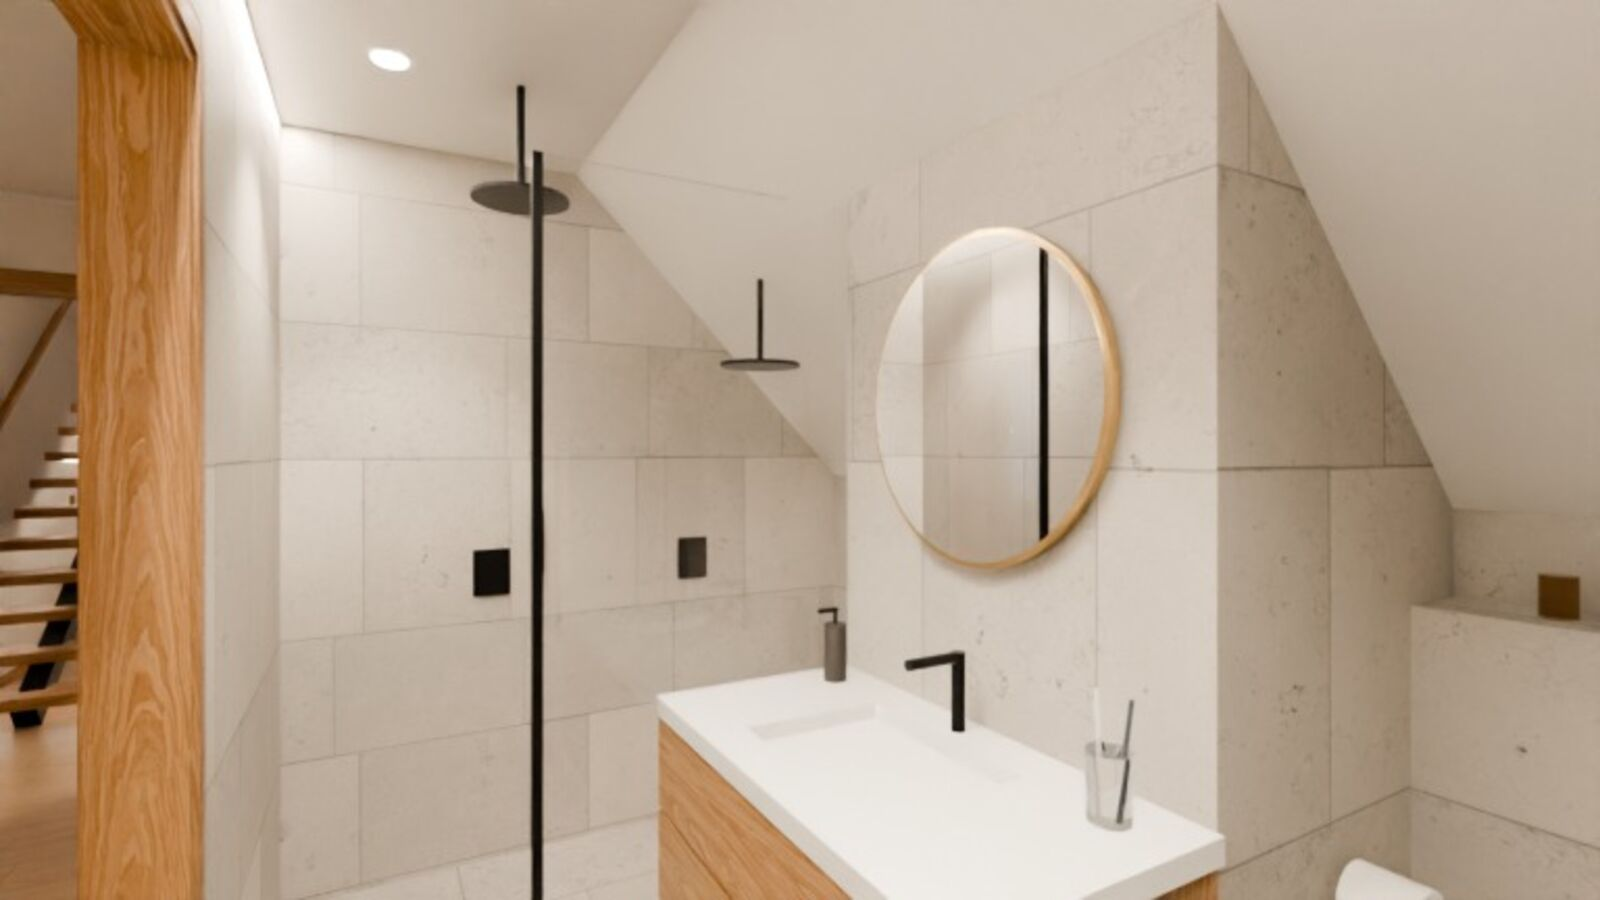
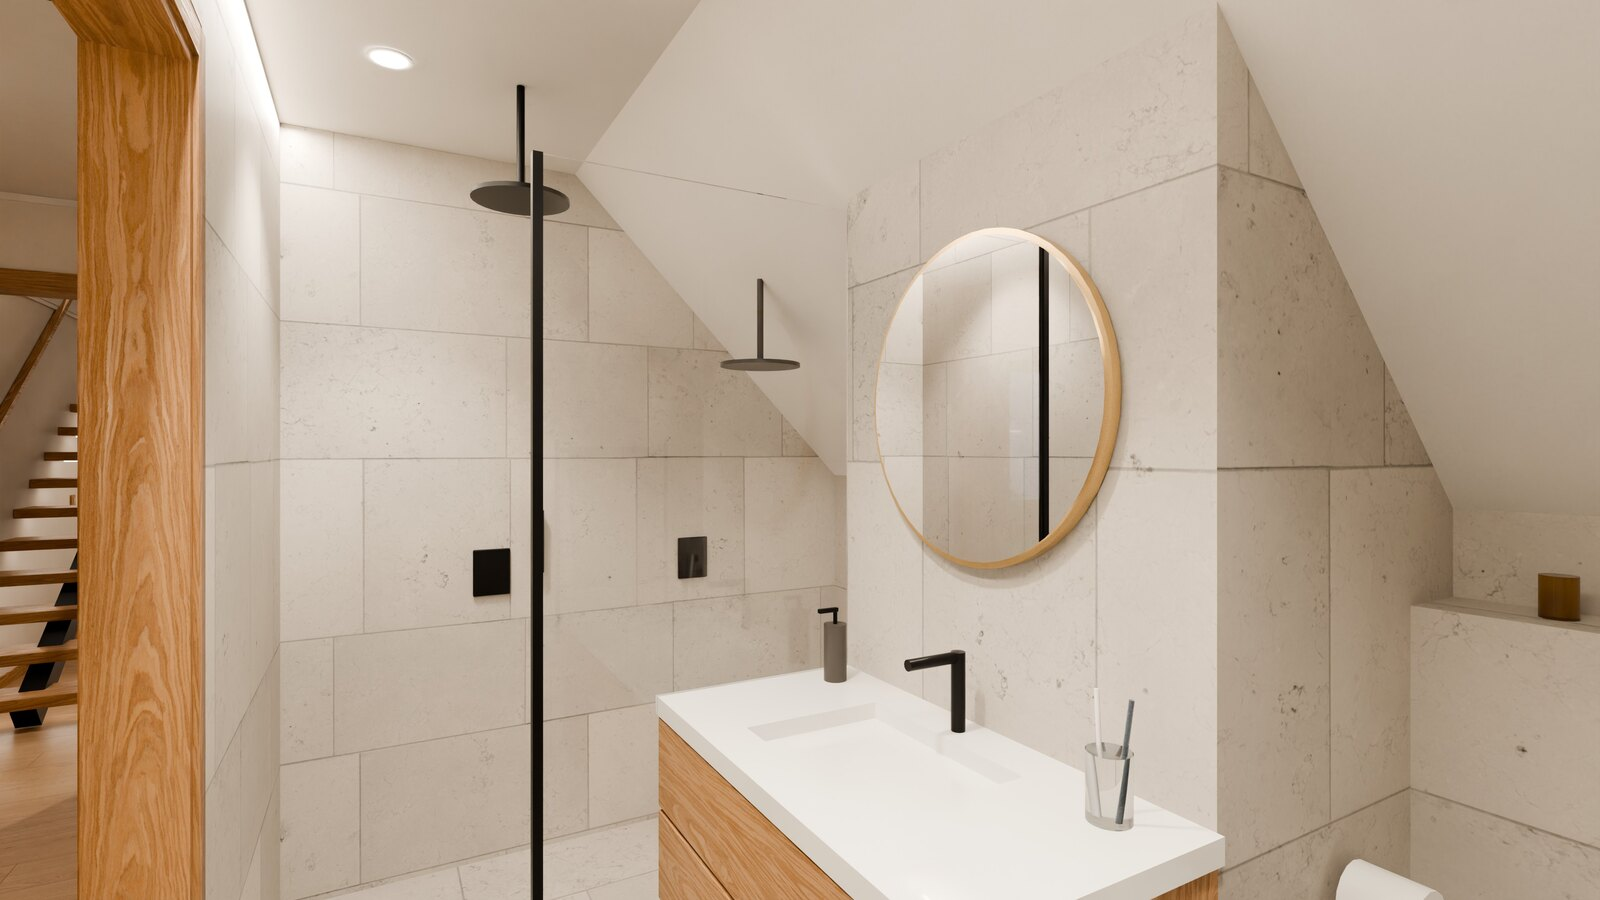
Boligannonse: 11 av 25 bilder i 4K

diff --git a/annonse/index.html b/annonse/index.html
@@ -103,7 +103,7 @@ img { max-width: 100%; }
 
 <div class="ark">
   <header class="topp">
-    <div class="merke"><strong>3D-visualisering av planlagt ombygging</strong><span>9 av 25 bilder er ferdige i 4K, resten er forhåndsvisninger</span></div>
+    <div class="merke"><strong>3D-visualisering av planlagt ombygging</strong><span>11 av 25 bilder er ferdige i 4K, resten er forhåndsvisninger</span></div>
     <h1>Enebolig med golfanneks og oppvarmet garasje</h1>
     <figure class="bilde hero"><button type="button" class="apne" data-i="0" aria-label="Åpne bildet: Fasaden mot nord med overbygd inngang"><img src="img/01-fasade.jpg" width="1600" height="900" alt="Fasaden mot nord med overbygd inngang"></button><figcaption>Fasaden mot nord med overbygd inngang</figcaption></figure>
     <p class="ingress">Et hus over tre plan med stue og kjøkken mot hagen, hovedsoverom med eget bad, tre barnerom og loft. I hagen står et anneks med golfsimulator. Trykk på et bilde for å se det i full oppløsning. På mobil fyller bildet hele skjermen når du snur den, og du blar ved å sveipe.</p>
@@ -113,7 +113,7 @@ img { max-width: 100%; }
 
 <section id="ute" class="del"><div class="delhode"><h2>Huset</h2><p>Brun stående kledning, sort ståltak og eik rundt alle åpninger. Overbygd inngang mot nord, dobbel garasje ved siden av.</p></div><div class="galleri"><figure class="bilde stor"><button type="button" class="apne" data-i="1" aria-label="Åpne bildet: Huset, garasjen og annekset sett fra nord"><img src="img/02-oversikt.jpg" width="1600" height="900" alt="Huset, garasjen og annekset sett fra nord" loading="lazy"></button><figcaption>Huset, garasjen og annekset sett fra nord</figcaption></figure></div></section>
 <section id="forste" class="del"><div class="delhode"><h2>Første etasje</h2><p>Stue, TV-stue, spisestue og kjøkken ligger på rekke mot hagen i sør. Tilbygget med kjøkken og spisestue ligger litt lavere enn stua og har 2,9 meter under taket.</p></div><div class="galleri"><figure class="bilde stor"><button type="button" class="apne" data-i="2" aria-label="Åpne bildet: Stua med karnapp mot hagen"><img src="img/04-stue.jpg" width="1600" height="900" alt="Stua med karnapp mot hagen" loading="lazy"></button><figcaption>Stua med karnapp mot hagen</figcaption></figure><figure class="bilde"><button type="button" class="apne" data-i="3" aria-label="Åpne bildet: Sofagruppa, med TV-stua bak glassveggen til venstre"><img src="img/05-stue-sofa.jpg" width="1600" height="900" alt="Sofagruppa, med TV-stua bak glassveggen til venstre" loading="lazy"></button><figcaption>Sofagruppa, med TV-stua bak glassveggen til venstre</figcaption></figure><figure class="bilde"><button type="button" class="apne" data-i="4" aria-label="Åpne bildet: Spisestue med rundt bord til åtte og skyvedører ut til terrassen"><img src="img/07-spisestue.jpg" width="1600" height="900" alt="Spisestue med rundt bord til åtte og skyvedører ut til terrassen" loading="lazy"></button><figcaption>Spisestue med rundt bord til åtte og skyvedører ut til terrassen</figcaption></figure><figure class="bilde"><button type="button" class="apne" data-i="5" aria-label="Åpne bildet: Kjøkken med mørk brune fronter og øy i Dekton"><img src="img/08-kjokken.jpg" width="1600" height="900" alt="Kjøkken med mørk brune fronter og øy i Dekton" loading="lazy"></button><figcaption>Kjøkken med mørk brune fronter og øy i Dekton</figcaption></figure><figure class="bilde"><button type="button" class="apne" data-i="6" aria-label="Åpne bildet: Kjøkkenøya har usynlig induksjon under steinplata"><img src="img/09-kjokken-oy.jpg" width="1600" height="900" alt="Kjøkkenøya har usynlig induksjon under steinplata" loading="lazy"></button><figcaption>Kjøkkenøya har usynlig induksjon under steinplata</figcaption></figure><figure class="bilde"><button type="button" class="apne" data-i="7" aria-label="Åpne bildet: TV-stua kan stenges av med glassfoldevegg"><img src="img/06-tvstue.jpg" width="1600" height="900" alt="TV-stua kan stenges av med glassfoldevegg" loading="lazy"></button><figcaption>TV-stua kan stenges av med glassfoldevegg</figcaption></figure><figure class="bilde"><button type="button" class="apne" data-i="8" aria-label="Åpne bildet: Entréen sett fra hoveddøra, med stua innerst"><img src="img/03-entre.jpg" width="1600" height="900" alt="Entréen sett fra hoveddøra, med stua innerst" loading="lazy"></button><figcaption>Entréen sett fra hoveddøra, med stua innerst</figcaption></figure></div></section>
-<section id="andre" class="del"><div class="delhode"><h2>Andre etasje</h2><p>Hovedsoverom med eget bad og walk-in, tre barnerom, barnebad, vaskerom og hjemmekontor.</p></div><div class="galleri"><figure class="bilde stor"><button type="button" class="apne" data-i="9" aria-label="Åpne bildet: Hovedsoverommet, med loftstrappa utenfor døra"><img src="img/10-hovedsoverom.jpg" width="1600" height="900" alt="Hovedsoverommet, med loftstrappa utenfor døra" loading="lazy"><span class="lav">Lav kvalitet, 4K kommer</span></button><figcaption>Hovedsoverommet, med loftstrappa utenfor døra</figcaption></figure><figure class="bilde"><button type="button" class="apne" data-i="10" aria-label="Åpne bildet: Bad til hovedsoverommet med dusj under skråtaket"><img src="img/11-masterbad.jpg" width="1600" height="900" alt="Bad til hovedsoverommet med dusj under skråtaket" loading="lazy"><span class="lav">Lav kvalitet, 4K kommer</span></button><figcaption>Bad til hovedsoverommet med dusj under skråtaket</figcaption></figure><figure class="bilde"><button type="button" class="apne" data-i="11" aria-label="Åpne bildet: Walk-in med plassbygd innredning i eik"><img src="img/12-walkin.jpg" width="1600" height="900" alt="Walk-in med plassbygd innredning i eik" loading="lazy"><span class="lav">Lav kvalitet, 4K kommer</span></button><figcaption>Walk-in med plassbygd innredning i eik</figcaption></figure><figure class="bilde"><button type="button" class="apne" data-i="12" aria-label="Åpne bildet: Barnerom med gulvhøyt vindu mot vest"><img src="img/13-barnerom2.jpg" width="1600" height="900" alt="Barnerom med gulvhøyt vindu mot vest" loading="lazy"><span class="lav">Lav kvalitet, 4K kommer</span></button><figcaption>Barnerom med gulvhøyt vindu mot vest</figcaption></figure><figure class="bilde"><button type="button" class="apne" data-i="13" aria-label="Åpne bildet: Barnerom med lenestol ved vinduet"><img src="img/14-barnerom3.jpg" width="1600" height="900" alt="Barnerom med lenestol ved vinduet" loading="lazy"><span class="lav">Lav kvalitet, 4K kommer</span></button><figcaption>Barnerom med lenestol ved vinduet</figcaption></figure><figure class="bilde"><button type="button" class="apne" data-i="14" aria-label="Åpne bildet: Barnerom med takvinduer mot sør"><img src="img/15-barnerom1.jpg" width="1600" height="900" alt="Barnerom med takvinduer mot sør" loading="lazy"><span class="lav">Lav kvalitet, 4K kommer</span></button><figcaption>Barnerom med takvinduer mot sør</figcaption></figure><figure class="bilde"><button type="button" class="apne" data-i="15" aria-label="Åpne bildet: Barnebad med dobbel servant og takvinduer"><img src="img/25-barnebad.jpg" width="1600" height="900" alt="Barnebad med dobbel servant og takvinduer" loading="lazy"><span class="lav">Lav kvalitet, 4K kommer</span></button><figcaption>Barnebad med dobbel servant og takvinduer</figcaption></figure><figure class="bilde"><button type="button" class="apne" data-i="16" aria-label="Åpne bildet: Hjemmekontor i nisjen ved trappa"><img src="img/16-kontor.jpg" width="1600" height="900" alt="Hjemmekontor i nisjen ved trappa" loading="lazy"><span class="lav">Lav kvalitet, 4K kommer</span></button><figcaption>Hjemmekontor i nisjen ved trappa</figcaption></figure></div></section>
+<section id="andre" class="del"><div class="delhode"><h2>Andre etasje</h2><p>Hovedsoverom med eget bad og walk-in, tre barnerom, barnebad, vaskerom og hjemmekontor.</p></div><div class="galleri"><figure class="bilde stor"><button type="button" class="apne" data-i="9" aria-label="Åpne bildet: Hovedsoverommet, med loftstrappa utenfor døra"><img src="img/10-hovedsoverom.jpg" width="1600" height="900" alt="Hovedsoverommet, med loftstrappa utenfor døra" loading="lazy"></button><figcaption>Hovedsoverommet, med loftstrappa utenfor døra</figcaption></figure><figure class="bilde"><button type="button" class="apne" data-i="10" aria-label="Åpne bildet: Bad til hovedsoverommet med dusj under skråtaket"><img src="img/11-masterbad.jpg" width="1600" height="900" alt="Bad til hovedsoverommet med dusj under skråtaket" loading="lazy"></button><figcaption>Bad til hovedsoverommet med dusj under skråtaket</figcaption></figure><figure class="bilde"><button type="button" class="apne" data-i="11" aria-label="Åpne bildet: Walk-in med plassbygd innredning i eik"><img src="img/12-walkin.jpg" width="1600" height="900" alt="Walk-in med plassbygd innredning i eik" loading="lazy"><span class="lav">Lav kvalitet, 4K kommer</span></button><figcaption>Walk-in med plassbygd innredning i eik</figcaption></figure><figure class="bilde"><button type="button" class="apne" data-i="12" aria-label="Åpne bildet: Barnerom med gulvhøyt vindu mot vest"><img src="img/13-barnerom2.jpg" width="1600" height="900" alt="Barnerom med gulvhøyt vindu mot vest" loading="lazy"><span class="lav">Lav kvalitet, 4K kommer</span></button><figcaption>Barnerom med gulvhøyt vindu mot vest</figcaption></figure><figure class="bilde"><button type="button" class="apne" data-i="13" aria-label="Åpne bildet: Barnerom med lenestol ved vinduet"><img src="img/14-barnerom3.jpg" width="1600" height="900" alt="Barnerom med lenestol ved vinduet" loading="lazy"><span class="lav">Lav kvalitet, 4K kommer</span></button><figcaption>Barnerom med lenestol ved vinduet</figcaption></figure><figure class="bilde"><button type="button" class="apne" data-i="14" aria-label="Åpne bildet: Barnerom med takvinduer mot sør"><img src="img/15-barnerom1.jpg" width="1600" height="900" alt="Barnerom med takvinduer mot sør" loading="lazy"><span class="lav">Lav kvalitet, 4K kommer</span></button><figcaption>Barnerom med takvinduer mot sør</figcaption></figure><figure class="bilde"><button type="button" class="apne" data-i="15" aria-label="Åpne bildet: Barnebad med dobbel servant og takvinduer"><img src="img/25-barnebad.jpg" width="1600" height="900" alt="Barnebad med dobbel servant og takvinduer" loading="lazy"><span class="lav">Lav kvalitet, 4K kommer</span></button><figcaption>Barnebad med dobbel servant og takvinduer</figcaption></figure><figure class="bilde"><button type="button" class="apne" data-i="16" aria-label="Åpne bildet: Hjemmekontor i nisjen ved trappa"><img src="img/16-kontor.jpg" width="1600" height="900" alt="Hjemmekontor i nisjen ved trappa" loading="lazy"><span class="lav">Lav kvalitet, 4K kommer</span></button><figcaption>Hjemmekontor i nisjen ved trappa</figcaption></figure></div></section>
 <section id="loft" class="del"><div class="delhode"><h2>Loftet</h2><p>Loftet har gjesterom i vest og et stort hobbyrom i øst, med tre takvinduer mot nord.</p></div><div class="galleri"><figure class="bilde stor"><button type="button" class="apne" data-i="17" aria-label="Åpne bildet: Hobbyrommet på loftet"><img src="img/17-loft.jpg" width="1600" height="900" alt="Hobbyrommet på loftet" loading="lazy"><span class="lav">Lav kvalitet, 4K kommer</span></button><figcaption>Hobbyrommet på loftet</figcaption></figure><figure class="bilde"><button type="button" class="apne" data-i="18" aria-label="Åpne bildet: Gjesterommet under mønet"><img src="img/18-loft-gjest.jpg" width="1600" height="900" alt="Gjesterommet under mønet" loading="lazy"><span class="lav">Lav kvalitet, 4K kommer</span></button><figcaption>Gjesterommet under mønet</figcaption></figure></div></section>
 <section id="hage" class="del"><div class="delhode"><h2>Terrasse og hage</h2><p>Terrassen ligger utenfor spisestua og fortsetter rundt hjørnet til kjøkkendøra. Hagen er skjermet av hekk.</p></div><div class="galleri"><figure class="bilde stor"><button type="button" class="apne" data-i="19" aria-label="Åpne bildet: Terrassen sett fra plenen"><img src="img/19-terrasse.jpg" width="1600" height="900" alt="Terrassen sett fra plenen" loading="lazy"><span class="lav">Lav kvalitet, 4K kommer</span></button><figcaption>Terrassen sett fra plenen</figcaption></figure><figure class="bilde"><button type="button" class="apne" data-i="20" aria-label="Åpne bildet: Sofagruppe på terrassen, annekset innerst i hagen"><img src="img/20-terrasse-ute.jpg" width="1600" height="900" alt="Sofagruppe på terrassen, annekset innerst i hagen" loading="lazy"><span class="lav">Lav kvalitet, 4K kommer</span></button><figcaption>Sofagruppe på terrassen, annekset innerst i hagen</figcaption></figure><figure class="bilde"><button type="button" class="apne" data-i="21" aria-label="Åpne bildet: Hellegang over plenen til annekset"><img src="img/21-hage-anneks.jpg" width="1600" height="900" alt="Hellegang over plenen til annekset" loading="lazy"><span class="lav">Lav kvalitet, 4K kommer</span></button><figcaption>Hellegang over plenen til annekset</figcaption></figure></div></section>
 <section id="anneks" class="del"><div class="delhode"><h2>Anneks og garasje</h2><p>Annekset på 40 kvadratmeter har golfsimulator med lerret fra vegg til vegg og en liten lounge. Garasjen er dobbel og oppvarmet.</p></div><div class="galleri"><figure class="bilde stor"><button type="button" class="apne" data-i="22" aria-label="Åpne bildet: Golfsimulatoren i annekset"><img src="img/22-golf.jpg" width="1600" height="900" alt="Golfsimulatoren i annekset" loading="lazy"><span class="lav">Lav kvalitet, 4K kommer</span></button><figcaption>Golfsimulatoren i annekset</figcaption></figure><figure class="bilde"><button type="button" class="apne" data-i="23" aria-label="Åpne bildet: Loungen i annekset, under himling av eikespiler"><img src="img/23-golf-lounge.jpg" width="1600" height="900" alt="Loungen i annekset, under himling av eikespiler" loading="lazy"><span class="lav">Lav kvalitet, 4K kommer</span></button><figcaption>Loungen i annekset, under himling av eikespiler</figcaption></figure><figure class="bilde"><button type="button" class="apne" data-i="24" aria-label="Åpne bildet: Oppvarmet garasje med arbeidsbenk og skapvegg"><img src="img/24-garasje.jpg" width="1600" height="900" alt="Oppvarmet garasje med arbeidsbenk og skapvegg" loading="lazy"><span class="lav">Lav kvalitet, 4K kommer</span></button><figcaption>Oppvarmet garasje med arbeidsbenk og skapvegg</figcaption></figure></div></section>
@@ -134,7 +134,7 @@ img { max-width: 100%; }
 
 <script>
 (function () {
-  var data = [["01-fasade","Fasaden mot nord med overbygd inngang",1],["02-oversikt","Huset, garasjen og annekset sett fra nord",1],["04-stue","Stua med karnapp mot hagen",1],["05-stue-sofa","Sofagruppa, med TV-stua bak glassveggen til venstre",1],["07-spisestue","Spisestue med rundt bord til åtte og skyvedører ut til terrassen",1],["08-kjokken","Kjøkken med mørk brune fronter og øy i Dekton",1],["09-kjokken-oy","Kjøkkenøya har usynlig induksjon under steinplata",1],["06-tvstue","TV-stua kan stenges av med glassfoldevegg",1],["03-entre","Entréen sett fra hoveddøra, med stua innerst",1],["10-hovedsoverom","Hovedsoverommet, med loftstrappa utenfor døra",0],["11-masterbad","Bad til hovedsoverommet med dusj under skråtaket",0],["12-walkin","Walk-in med plassbygd innredning i eik",0],["13-barnerom2","Barnerom med gulvhøyt vindu mot vest",0],["14-barnerom3","Barnerom med lenestol ved vinduet",0],["15-barnerom1","Barnerom med takvinduer mot sør",0],["25-barnebad","Barnebad med dobbel servant og takvinduer",0],["16-kontor","Hjemmekontor i nisjen ved trappa",0],["17-loft","Hobbyrommet på loftet",0],["18-loft-gjest","Gjesterommet under mønet",0],["19-terrasse","Terrassen sett fra plenen",0],["20-terrasse-ute","Sofagruppe på terrassen, annekset innerst i hagen",0],["21-hage-anneks","Hellegang over plenen til annekset",0],["22-golf","Golfsimulatoren i annekset",0],["23-golf-lounge","Loungen i annekset, under himling av eikespiler",0],["24-garasje","Oppvarmet garasje med arbeidsbenk og skapvegg",0]];
+  var data = [["01-fasade","Fasaden mot nord med overbygd inngang",1],["02-oversikt","Huset, garasjen og annekset sett fra nord",1],["04-stue","Stua med karnapp mot hagen",1],["05-stue-sofa","Sofagruppa, med TV-stua bak glassveggen til venstre",1],["07-spisestue","Spisestue med rundt bord til åtte og skyvedører ut til terrassen",1],["08-kjokken","Kjøkken med mørk brune fronter og øy i Dekton",1],["09-kjokken-oy","Kjøkkenøya har usynlig induksjon under steinplata",1],["06-tvstue","TV-stua kan stenges av med glassfoldevegg",1],["03-entre","Entréen sett fra hoveddøra, med stua innerst",1],["10-hovedsoverom","Hovedsoverommet, med loftstrappa utenfor døra",1],["11-masterbad","Bad til hovedsoverommet med dusj under skråtaket",1],["12-walkin","Walk-in med plassbygd innredning i eik",0],["13-barnerom2","Barnerom med gulvhøyt vindu mot vest",0],["14-barnerom3","Barnerom med lenestol ved vinduet",0],["15-barnerom1","Barnerom med takvinduer mot sør",0],["25-barnebad","Barnebad med dobbel servant og takvinduer",0],["16-kontor","Hjemmekontor i nisjen ved trappa",0],["17-loft","Hobbyrommet på loftet",0],["18-loft-gjest","Gjesterommet under mønet",0],["19-terrasse","Terrassen sett fra plenen",0],["20-terrasse-ute","Sofagruppe på terrassen, annekset innerst i hagen",0],["21-hage-anneks","Hellegang over plenen til annekset",0],["22-golf","Golfsimulatoren i annekset",0],["23-golf-lounge","Loungen i annekset, under himling av eikespiler",0],["24-garasje","Oppvarmet garasje med arbeidsbenk og skapvegg",0]];
   var lys = document.getElementById("lys"), rom = document.getElementById("lys-rom"), bilde = document.getElementById("lys-bilde");
   var tekst = document.getElementById("lys-tekst"), teller = document.getElementById("lys-teller"), zoom = document.getElementById("lys-zoom");
   var i = 0, sist = null;
